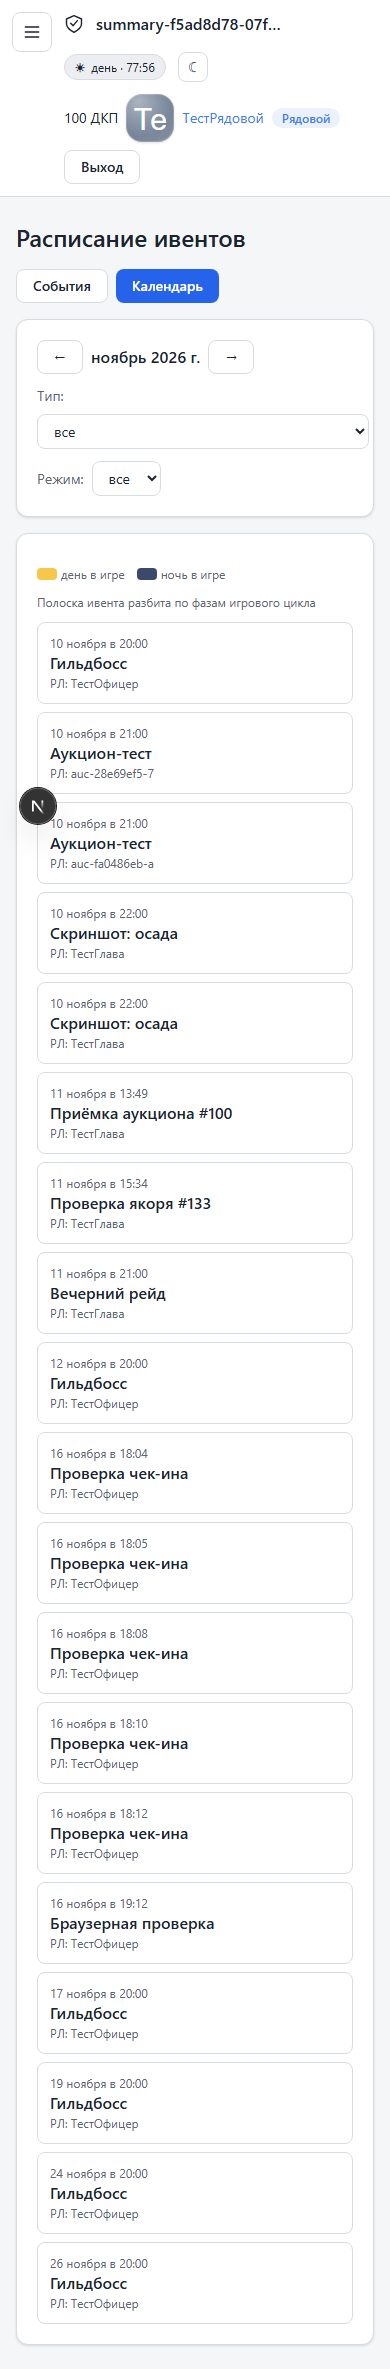
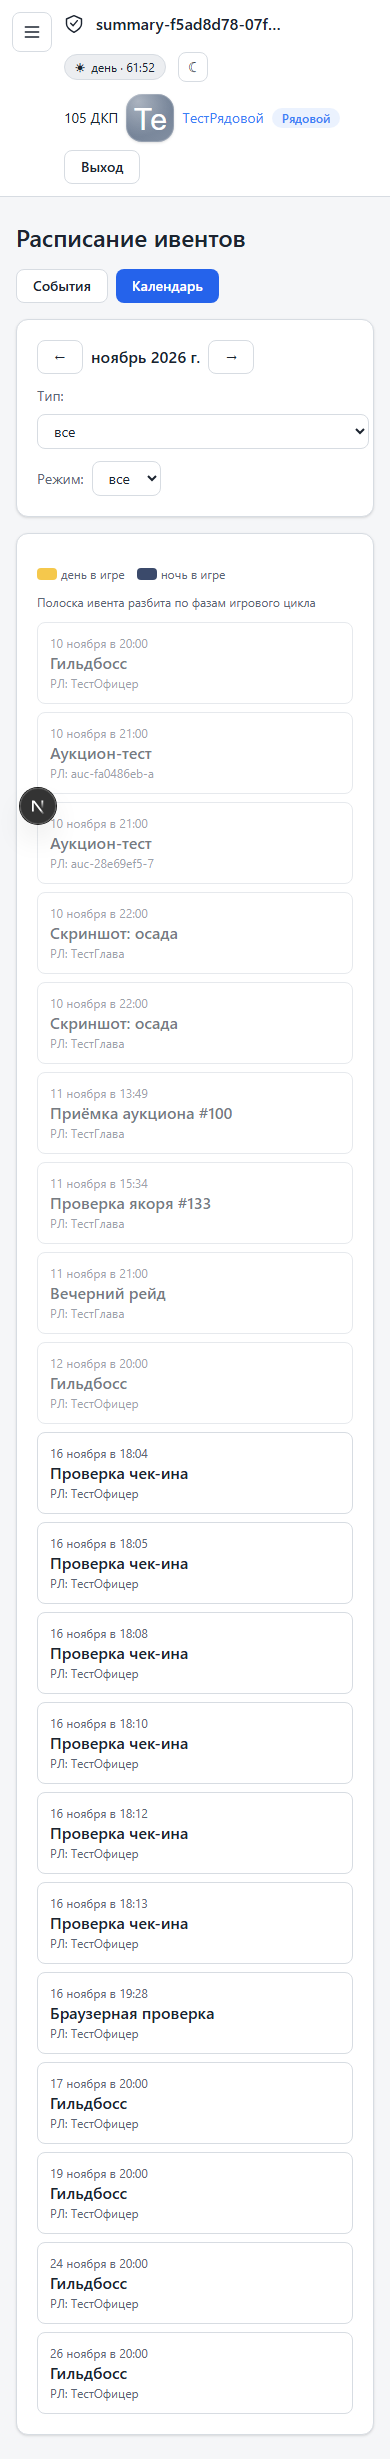
fix: затемнять прошедшие события в мобильном календаре (#173) (#200)

diff --git a/apps/web/components/ui/schedule.tsx b/apps/web/components/ui/schedule.tsx
@@ -20,7 +20,7 @@ export function MobileCalendarList({
             key={event.id}
             type="button"
             onClick={() => onSelect(event)}
-            className="w-full rounded-lg border border-line bg-surface p-3 text-left"
+            className={`w-full rounded-lg border border-line bg-surface p-3 text-left ${+new Date(event.endsAt) <= Date.now() || event.status === 'FINISHED' ? 'opacity-60' : ''}`}
           >
             <span className="block text-xs text-secondary">
               {new Date(event.startsAt).toLocaleString('ru-RU', {
